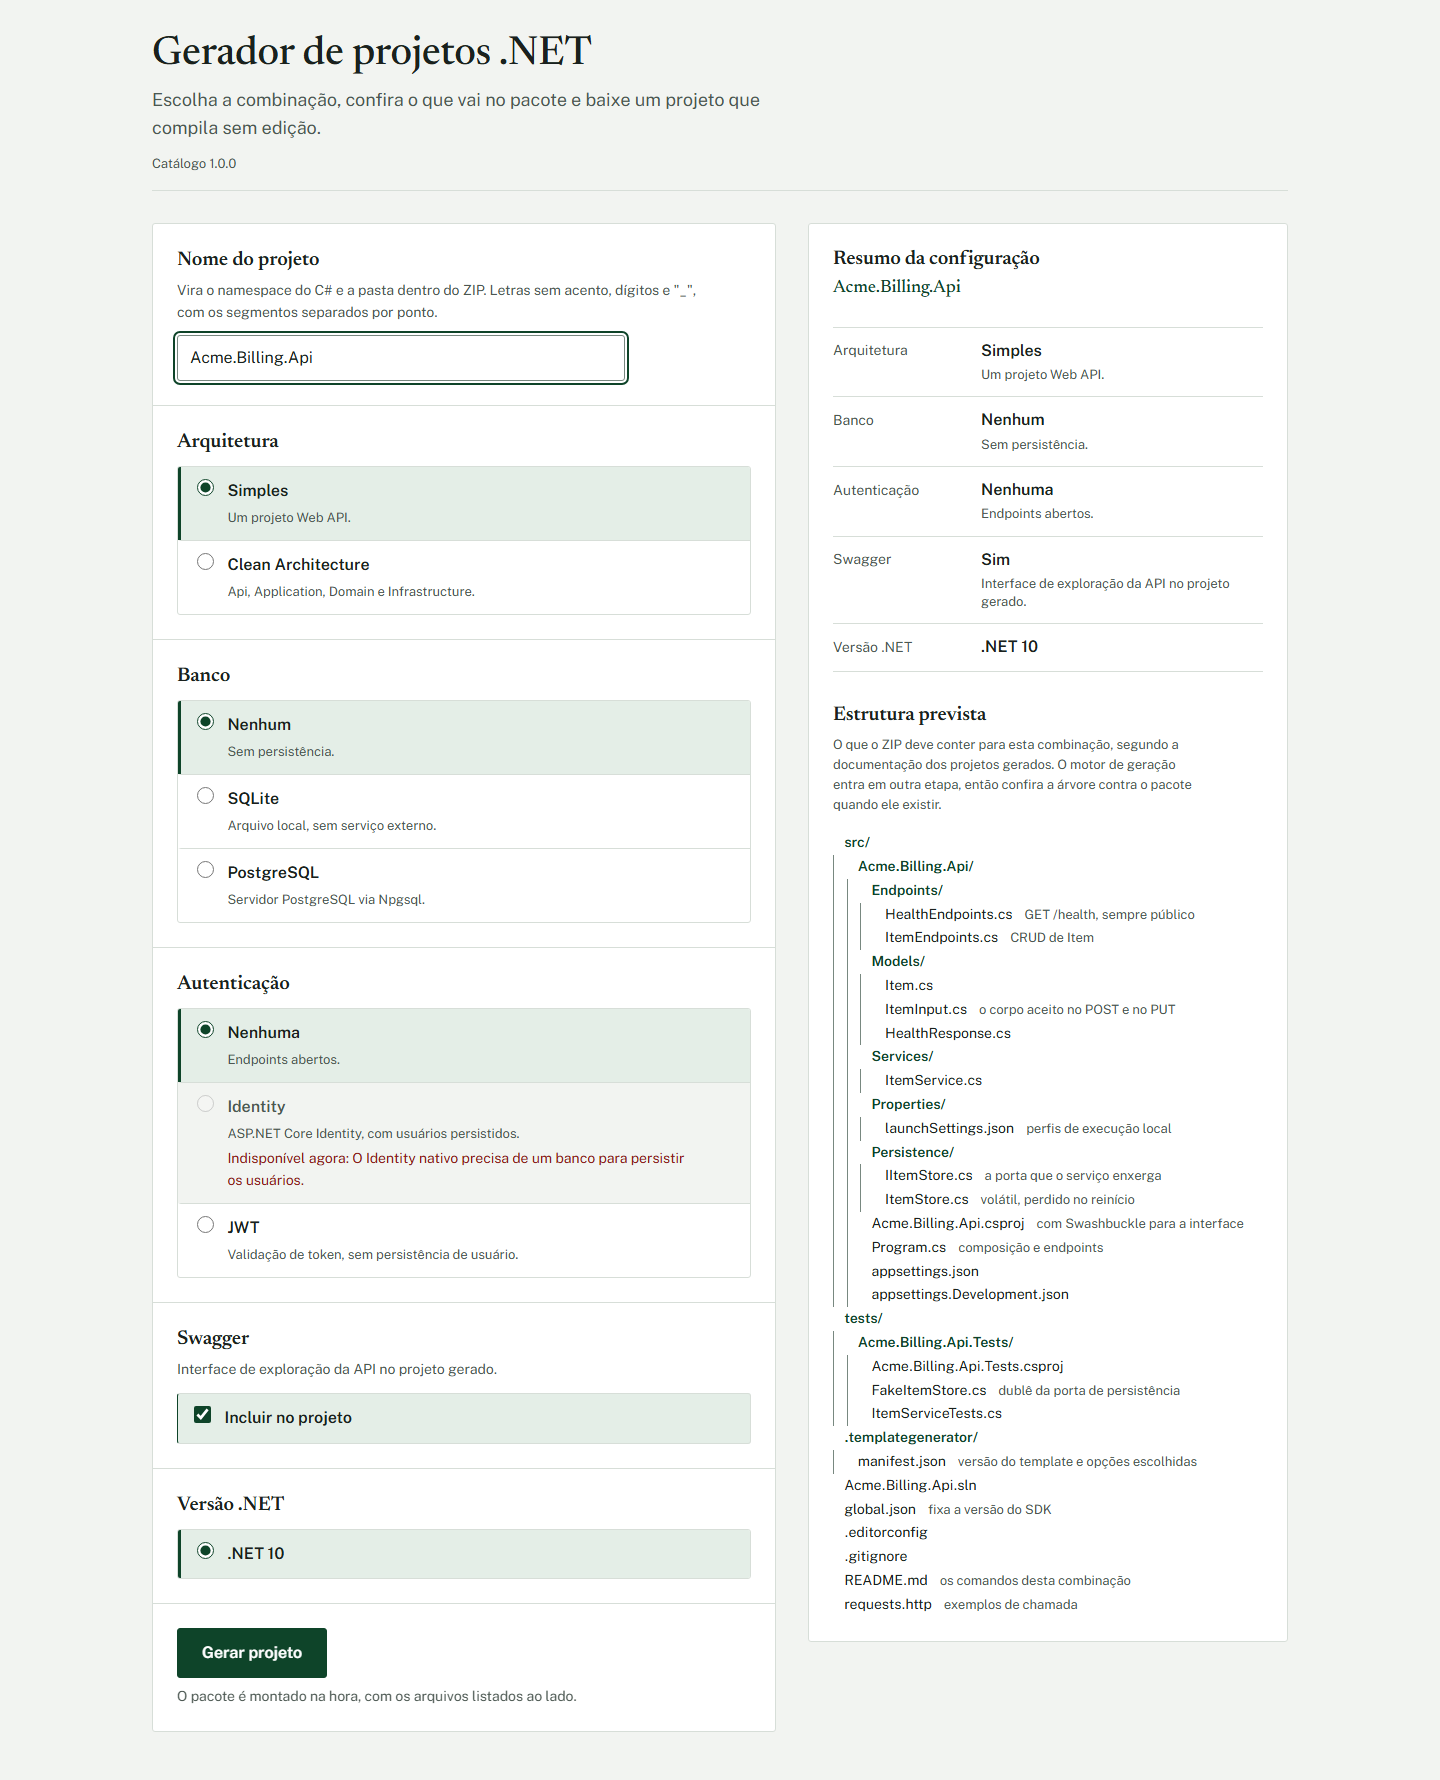
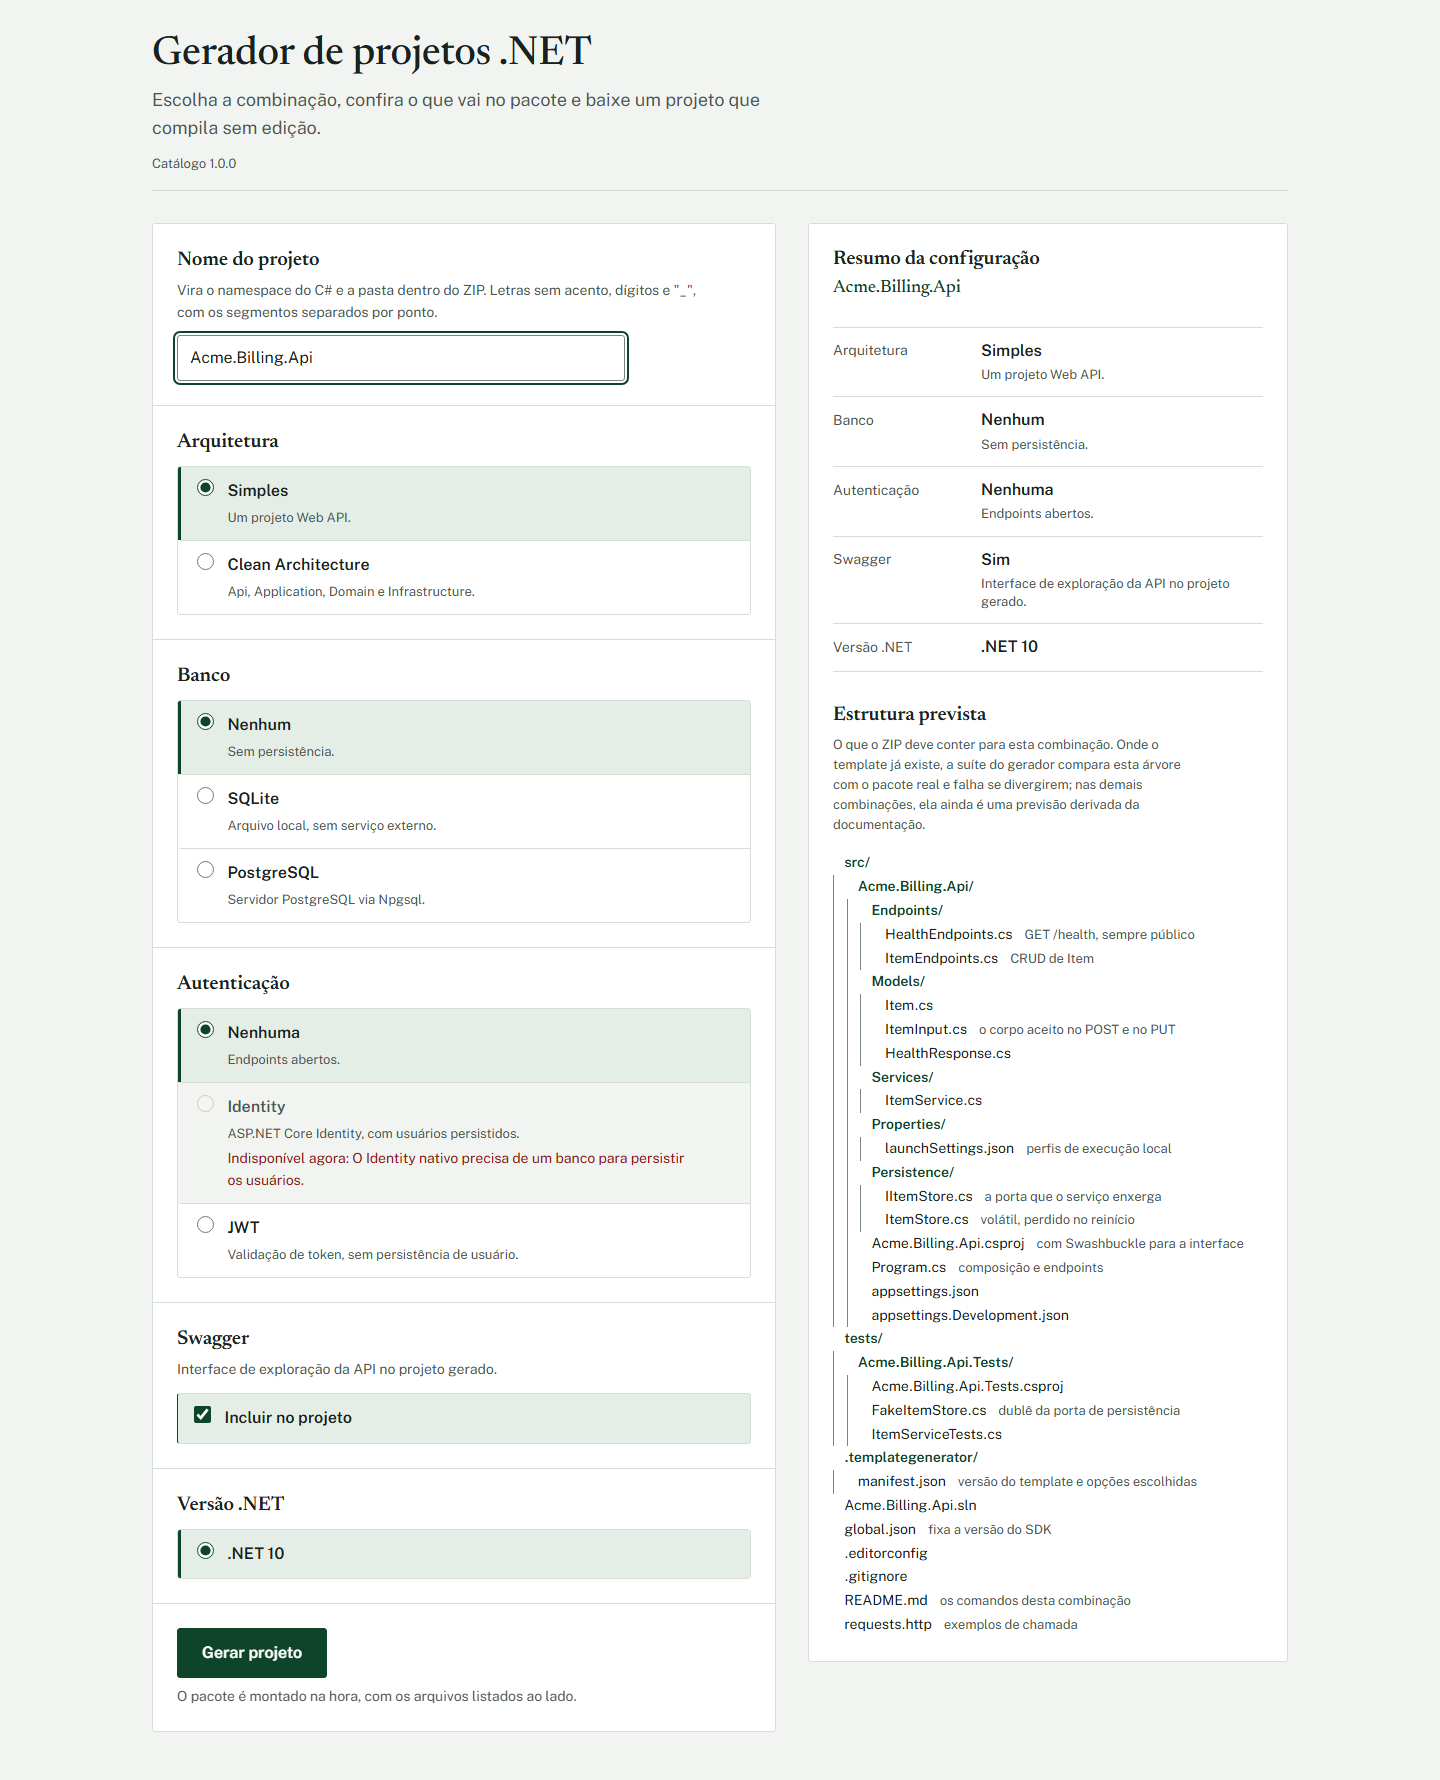
T03: dizer na tela o que a suite realmente confere
A frase antiga pedia a quem usa que conferisse a arvore contra o pacote quando
o motor existisse. O motor existe e a conferencia e automatica desde a
amarracao, entao o texto passou a pedir um trabalho que a suite ja faz a cada
commit. A frase nova distingue o que esta amarrado do que ainda e previsao, e
continua verdadeira depois de T04 sem precisar de edicao.

Recaptura as oito telas, que mostravam o texto antigo.

Changed region(s): [[0.5625, 0.4017, 0.875, 0.927]]

diff --git a/src/web/src/app/features/configurator/config-summary.html b/src/web/src/app/features/configurator/config-summary.html
@@ -20,10 +20,19 @@
   </dl>
 
   <h3 class="summary__subtitle" id="estrutura-titulo">Estrutura prevista</h3>
+  <!--
+    Texto fixado por ADR-0010, parcialmente expirada em T03. A frase é uma só de
+    propósito: a fronteira entre "conferida" e "prevista" não é um dos eixos de
+    escolha, é a conjunção deles — há combinações da mesma arquitetura que ainda
+    não têm template. Fazer a frase variar exigiria, aqui, uma segunda fonte de
+    verdade sobre quais combinações já estão amarradas, e é justamente essa
+    deriva que a ADR registra. Assim ela é exata hoje e continua exata depois de
+    T04, sem edição — e nenhum valor de opção precisa aparecer neste arquivo.
+  -->
   <p class="summary__caveat">
-    O que o ZIP deve conter para esta combinação, segundo a documentação dos projetos gerados. O
-    motor de geração entra em outra etapa, então confira a árvore contra o pacote quando ele
-    existir.
+    O que o ZIP deve conter para esta combinação. Onde o template já existe, a suíte do gerador
+    compara esta árvore com o pacote real e falha se divergirem; nas demais combinações, ela ainda é
+    uma previsão derivada da documentação.
   </p>
 
   <ul class="tree" aria-labelledby="estrutura-titulo">
